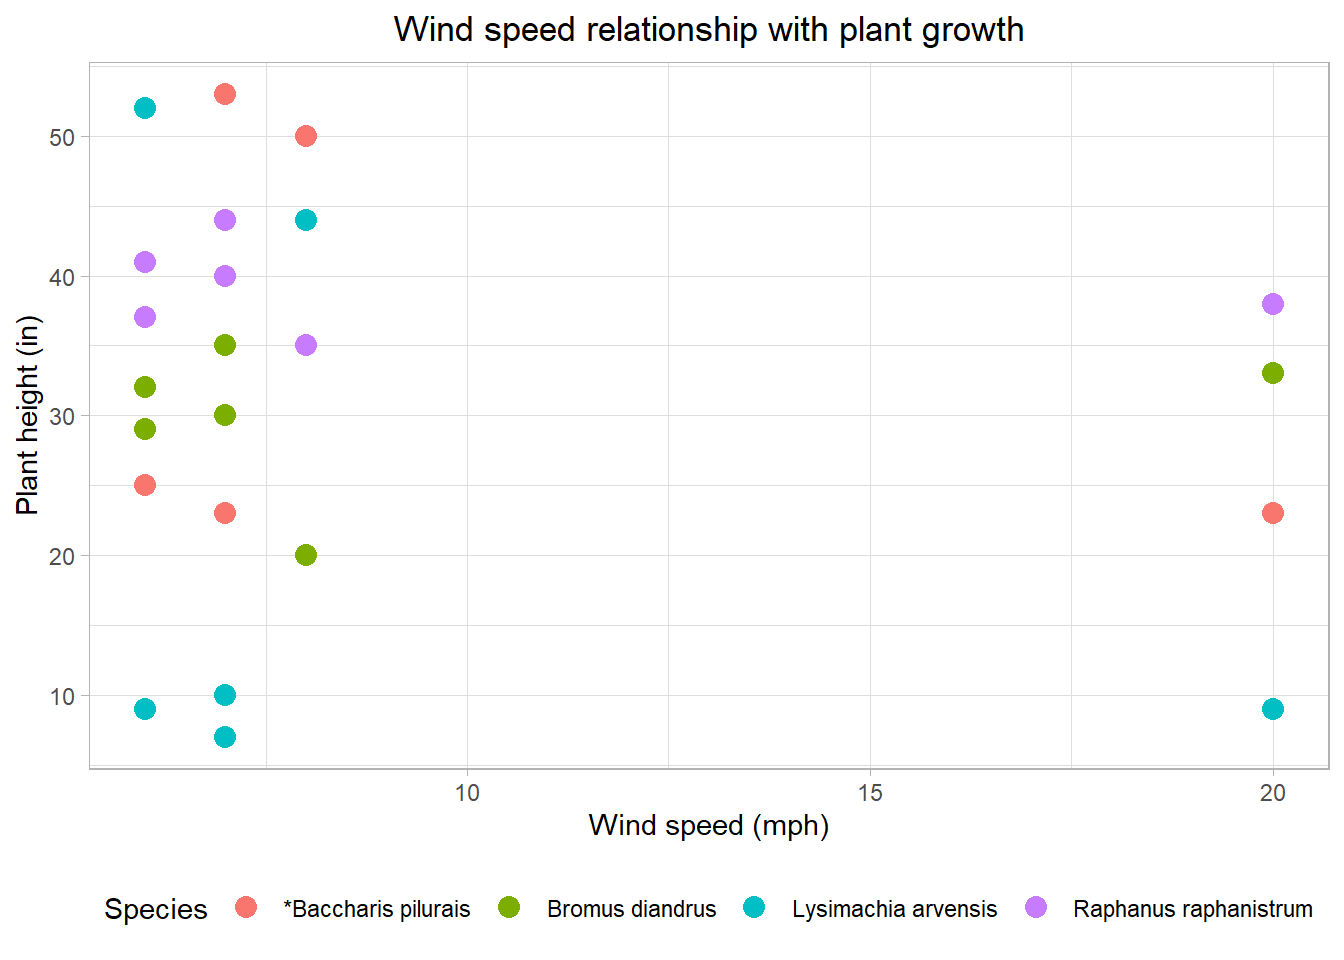
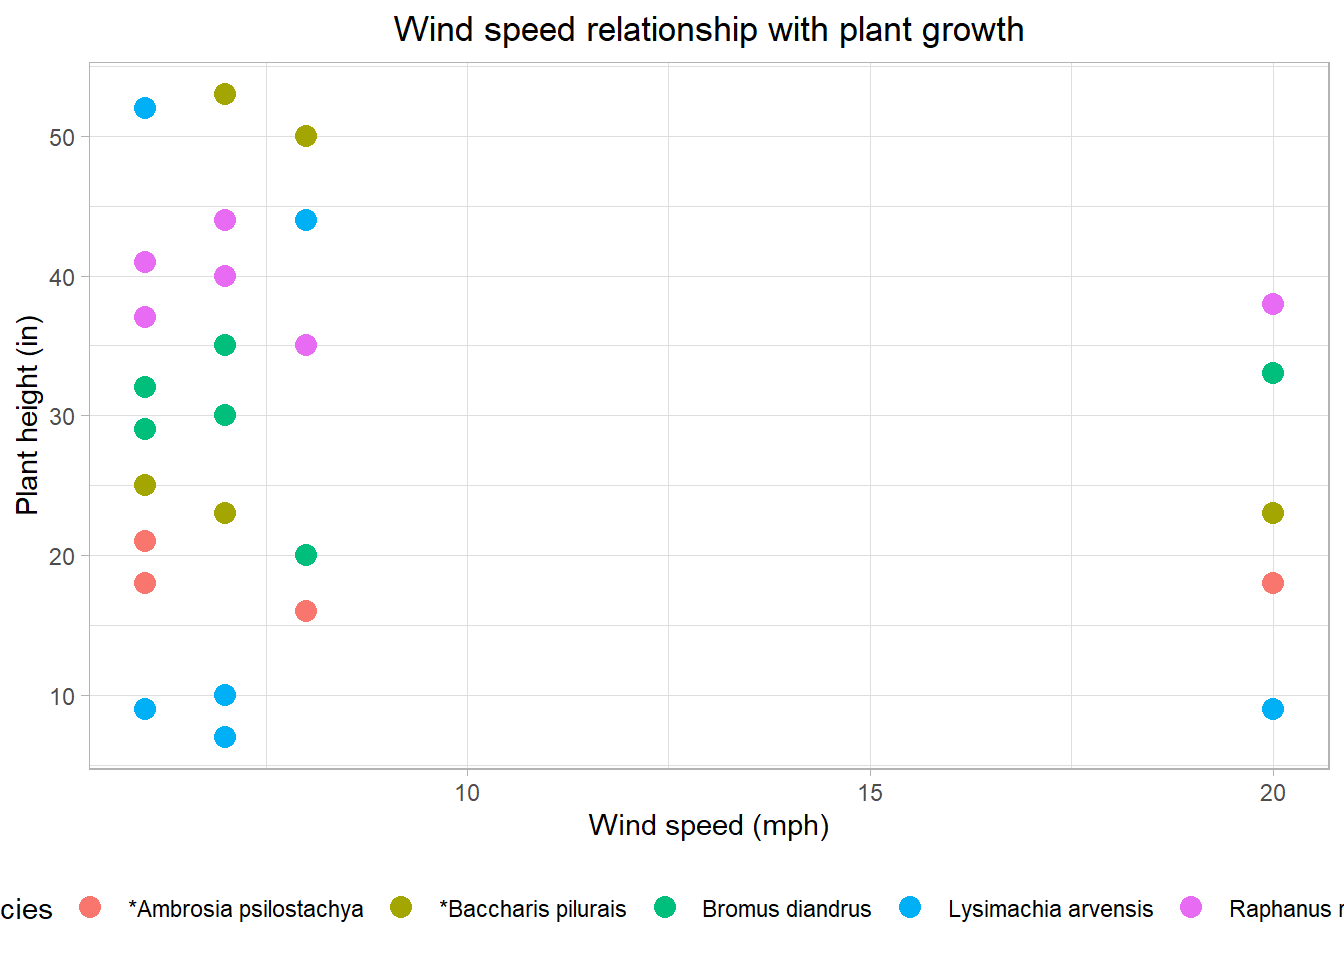
retain outlier native species in df

diff --git a/code/Modeling.html b/code/Modeling.html
@@ -132,8 +132,10 @@ pre > code.sourceCode > span > a:first-child::before { text-decoration: underlin
 <span id="cb1-12"><a href="#cb1-12" aria-hidden="true" tabindex="-1"></a>                             <span class="st">"LagoonLappers_DataSheetES153 - R-Studio Data.csv"</span>))</span>
 <span id="cb1-13"><a href="#cb1-13" aria-hidden="true" tabindex="-1"></a><span class="co"># clean data</span></span>
 <span id="cb1-14"><a href="#cb1-14" aria-hidden="true" tabindex="-1"></a>labrynth_clean <span class="ot">&lt;-</span> labrynth <span class="sc">|&gt;</span> <span class="co"># create new object</span></span>
-<span id="cb1-15"><a href="#cb1-15" aria-hidden="true" tabindex="-1"></a>  <span class="fu">clean_names</span>() <span class="sc">|&gt;</span>  <span class="co"># clean column names to lower case and underscores</span></span>
-<span id="cb1-16"><a href="#cb1-16" aria-hidden="true" tabindex="-1"></a>  <span class="fu">filter</span>(common_name_plant <span class="sc">%in%</span> <span class="fu">c</span>(<span class="st">"Great Brome Grass"</span>, <span class="st">"Scarlet Pimpernel"</span>, <span class="st">"Wild Radish"</span>,<span class="st">"*Coyote Brush"</span>))</span></code></pre></div><button title="Copy to Clipboard" class="code-copy-button"><i class="bi"></i></button></div>
+<span id="cb1-15"><a href="#cb1-15" aria-hidden="true" tabindex="-1"></a>  <span class="fu">clean_names</span>() <span class="co"># clean column names to lower case and underscores</span></span>
+<span id="cb1-16"><a href="#cb1-16" aria-hidden="true" tabindex="-1"></a></span>
+<span id="cb1-17"><a href="#cb1-17" aria-hidden="true" tabindex="-1"></a>labrynth_adj <span class="ot">&lt;-</span> labrynth_clean <span class="sc">|&gt;</span> <span class="co">#create new object for voiding a scpecies</span></span>
+<span id="cb1-18"><a href="#cb1-18" aria-hidden="true" tabindex="-1"></a>  <span class="fu">filter</span>(common_name_plant <span class="sc">%in%</span> <span class="fu">c</span>(<span class="st">"Great Brome Grass"</span>, <span class="st">"Scarlet Pimpernel"</span>, <span class="st">"Wild Radish"</span>,<span class="st">"*Coyote Brush"</span>))</span></code></pre></div><button title="Copy to Clipboard" class="code-copy-button"><i class="bi"></i></button></div>
 </div>
 </section>
 <section id="figures" class="level1">
@@ -177,6 +179,10 @@ pre > code.sourceCode > span > a:first-child::before { text-decoration: underlin
 <span id="cb3-10"><a href="#cb3-10" aria-hidden="true" tabindex="-1"></a>       <span class="at">color =</span> <span class="st">"Species"</span>) <span class="sc">+</span></span>
 <span id="cb3-11"><a href="#cb3-11" aria-hidden="true" tabindex="-1"></a>  <span class="fu">theme</span>(<span class="at">legend.position =</span> <span class="st">"bottom"</span>,</span>
 <span id="cb3-12"><a href="#cb3-12" aria-hidden="true" tabindex="-1"></a>        <span class="at">plot.title =</span> <span class="fu">element_text</span>(<span class="at">hjust =</span> <span class="fl">0.5</span>))</span></code></pre></div><button title="Copy to Clipboard" class="code-copy-button"><i class="bi"></i></button></div>
+<div class="cell-output cell-output-stderr">
+<pre><code>Warning: Removed 2 rows containing missing values or values outside the scale range
+(`geom_point()`).</code></pre>
+</div>
 <div class="cell-output-display">
 <div>
 <figure class="figure">
@@ -189,18 +195,22 @@ pre > code.sourceCode > span > a:first-child::before { text-decoration: underlin
 <section id="figure-3.-species-height-over-time" class="level2">
 <h2 class="anchored" data-anchor-id="figure-3.-species-height-over-time">Figure 3. Species height over time</h2>
 <div class="cell">
-<div class="code-copy-outer-scaffold"><div class="sourceCode cell-code" id="cb4"><pre class="sourceCode r code-with-copy"><code class="sourceCode r"><span id="cb4-1"><a href="#cb4-1" aria-hidden="true" tabindex="-1"></a><span class="fu">ggplot</span>(<span class="at">data =</span> labrynth_clean,</span>
-<span id="cb4-2"><a href="#cb4-2" aria-hidden="true" tabindex="-1"></a>       <span class="fu">aes</span>(<span class="at">x =</span> date,</span>
-<span id="cb4-3"><a href="#cb4-3" aria-hidden="true" tabindex="-1"></a>           <span class="at">y =</span> height_of_each_plant_species_in,</span>
-<span id="cb4-4"><a href="#cb4-4" aria-hidden="true" tabindex="-1"></a>           <span class="at">color =</span> plant_species)) <span class="sc">+</span></span>
-<span id="cb4-5"><a href="#cb4-5" aria-hidden="true" tabindex="-1"></a>  <span class="fu">geom_point</span>(<span class="at">size =</span> <span class="fl">3.5</span>) <span class="sc">+</span></span>
-<span id="cb4-6"><a href="#cb4-6" aria-hidden="true" tabindex="-1"></a>  <span class="fu">theme_light</span>() <span class="sc">+</span></span>
-<span id="cb4-7"><a href="#cb4-7" aria-hidden="true" tabindex="-1"></a>  <span class="fu">labs</span>(<span class="at">title =</span> <span class="st">"Plant growth by species over time"</span>,</span>
-<span id="cb4-8"><a href="#cb4-8" aria-hidden="true" tabindex="-1"></a>       <span class="at">x =</span> <span class="st">"Date"</span>,</span>
-<span id="cb4-9"><a href="#cb4-9" aria-hidden="true" tabindex="-1"></a>       <span class="at">y =</span> <span class="st">"Plant height (in)"</span>,</span>
-<span id="cb4-10"><a href="#cb4-10" aria-hidden="true" tabindex="-1"></a>       <span class="at">color =</span> <span class="st">"Species"</span>) <span class="sc">+</span></span>
-<span id="cb4-11"><a href="#cb4-11" aria-hidden="true" tabindex="-1"></a>  <span class="fu">theme</span>(<span class="at">legend.position =</span> <span class="st">"bottom"</span>,</span>
-<span id="cb4-12"><a href="#cb4-12" aria-hidden="true" tabindex="-1"></a>        <span class="at">plot.title =</span> <span class="fu">element_text</span>(<span class="at">hjust =</span> <span class="fl">0.5</span>))</span></code></pre></div><button title="Copy to Clipboard" class="code-copy-button"><i class="bi"></i></button></div>
+<div class="code-copy-outer-scaffold"><div class="sourceCode cell-code" id="cb5"><pre class="sourceCode r code-with-copy"><code class="sourceCode r"><span id="cb5-1"><a href="#cb5-1" aria-hidden="true" tabindex="-1"></a><span class="fu">ggplot</span>(<span class="at">data =</span> labrynth_clean,</span>
+<span id="cb5-2"><a href="#cb5-2" aria-hidden="true" tabindex="-1"></a>       <span class="fu">aes</span>(<span class="at">x =</span> date,</span>
+<span id="cb5-3"><a href="#cb5-3" aria-hidden="true" tabindex="-1"></a>           <span class="at">y =</span> height_of_each_plant_species_in,</span>
+<span id="cb5-4"><a href="#cb5-4" aria-hidden="true" tabindex="-1"></a>           <span class="at">color =</span> plant_species)) <span class="sc">+</span></span>
+<span id="cb5-5"><a href="#cb5-5" aria-hidden="true" tabindex="-1"></a>  <span class="fu">geom_point</span>(<span class="at">size =</span> <span class="fl">3.5</span>) <span class="sc">+</span></span>
+<span id="cb5-6"><a href="#cb5-6" aria-hidden="true" tabindex="-1"></a>  <span class="fu">theme_light</span>() <span class="sc">+</span></span>
+<span id="cb5-7"><a href="#cb5-7" aria-hidden="true" tabindex="-1"></a>  <span class="fu">labs</span>(<span class="at">title =</span> <span class="st">"Plant growth by species over time"</span>,</span>
+<span id="cb5-8"><a href="#cb5-8" aria-hidden="true" tabindex="-1"></a>       <span class="at">x =</span> <span class="st">"Date"</span>,</span>
+<span id="cb5-9"><a href="#cb5-9" aria-hidden="true" tabindex="-1"></a>       <span class="at">y =</span> <span class="st">"Plant height (in)"</span>,</span>
+<span id="cb5-10"><a href="#cb5-10" aria-hidden="true" tabindex="-1"></a>       <span class="at">color =</span> <span class="st">"Species"</span>) <span class="sc">+</span></span>
+<span id="cb5-11"><a href="#cb5-11" aria-hidden="true" tabindex="-1"></a>  <span class="fu">theme</span>(<span class="at">legend.position =</span> <span class="st">"bottom"</span>,</span>
+<span id="cb5-12"><a href="#cb5-12" aria-hidden="true" tabindex="-1"></a>        <span class="at">plot.title =</span> <span class="fu">element_text</span>(<span class="at">hjust =</span> <span class="fl">0.5</span>))</span></code></pre></div><button title="Copy to Clipboard" class="code-copy-button"><i class="bi"></i></button></div>
+<div class="cell-output cell-output-stderr">
+<pre><code>Warning: Removed 2 rows containing missing values or values outside the scale range
+(`geom_point()`).</code></pre>
+</div>
 <div class="cell-output-display">
 <div>
 <figure class="figure">